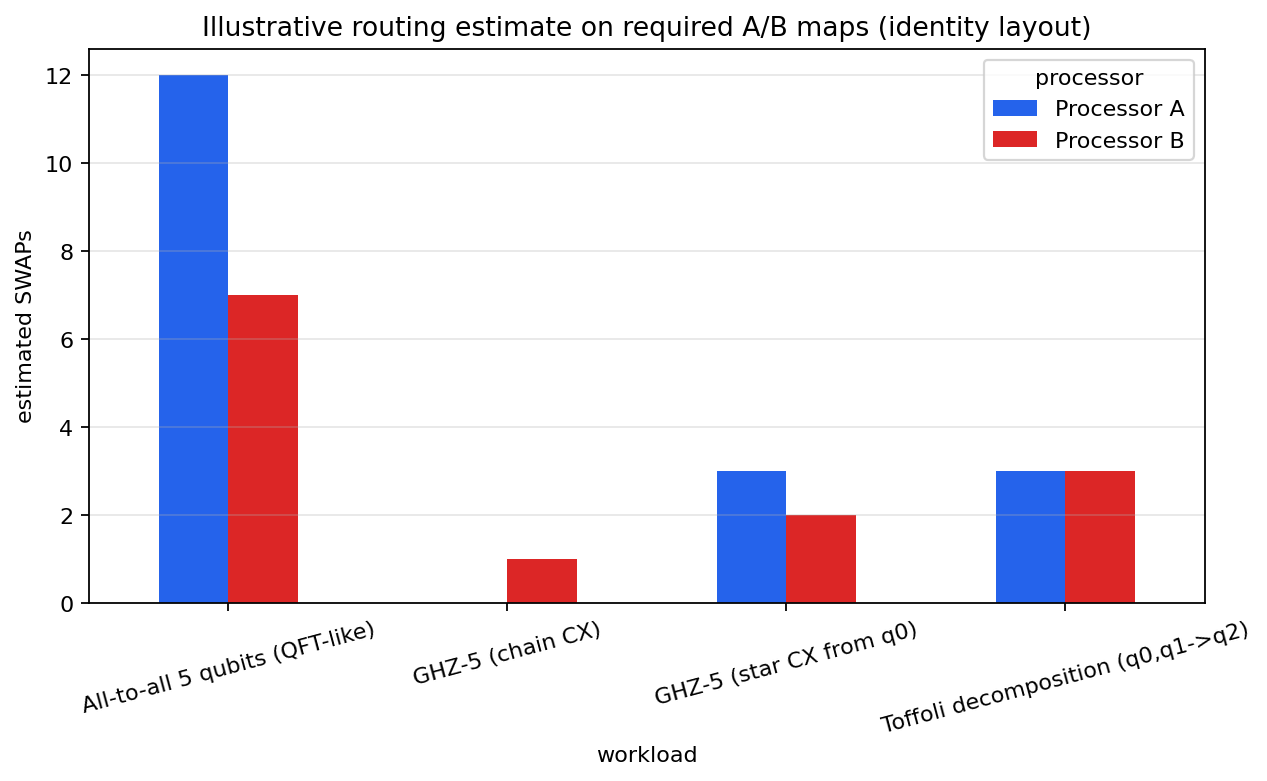
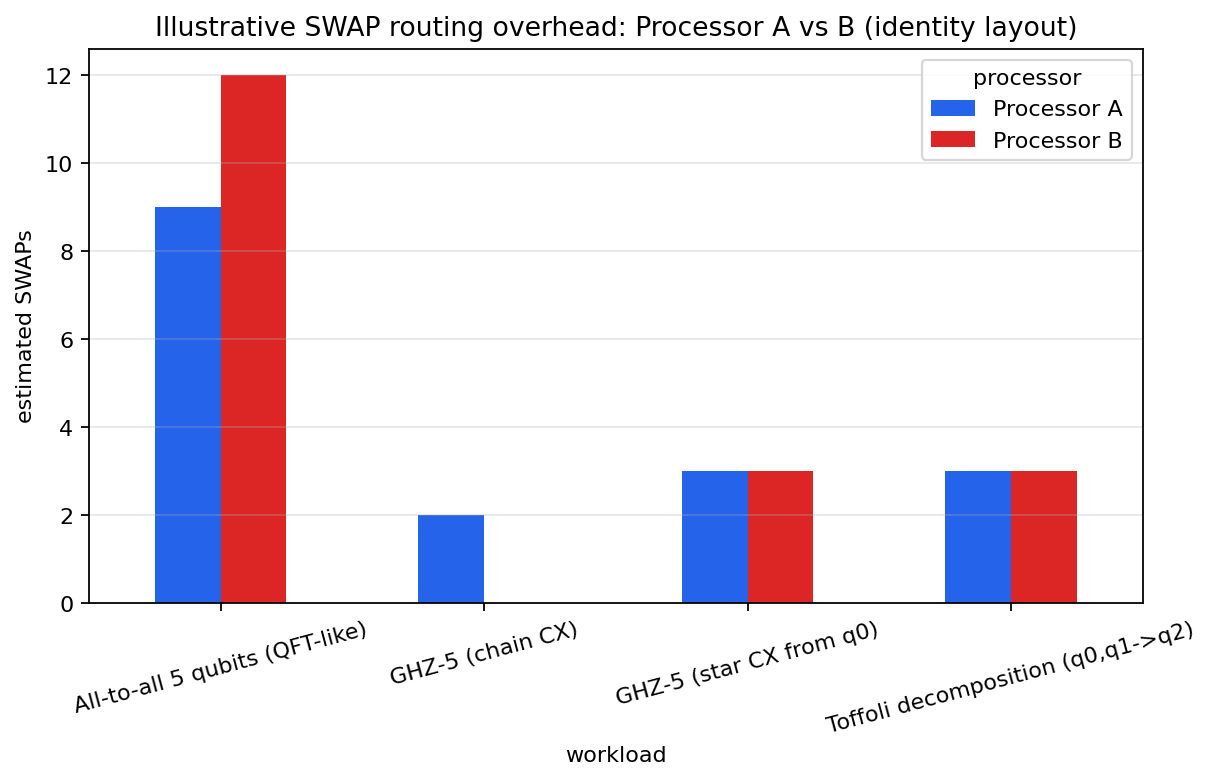
chore(viz): refresh routing_estimate_AB.png with new processor topologies

diff --git a/src/visualization.py b/src/visualization.py
@@ -232,9 +232,15 @@ def fig_routing() -> Path | None:
     cols = [c for c in ["Processor A", "Processor B", "Processor D (3x3 Grid)"] if c in piv.columns]
     piv = piv[cols]
     ax = piv.plot.bar(figsize=(10, 4.8), color=["#2563eb", "#dc2626", "#059669"], rot=15)
-    ax.set_ylabel("estimated SWAPs")
-    ax.set_title("Illustrative SWAP routing overhead: Processor A vs B vs D (identity layout)")
-    ax.grid(axis="y", alpha=0.3)
+    # Save AB-only baseline comparison
+    cols_ab = [c for c in ["Processor A", "Processor B"] if c in piv.columns]
+    if cols_ab:
+        ax_ab = piv[cols_ab].plot.bar(figsize=(8.5, 4.5), color=["#2563eb", "#dc2626"], rot=15)
+        ax_ab.set_ylabel("estimated SWAPs")
+        ax_ab.set_title("Illustrative SWAP routing overhead: Processor A vs B (identity layout)")
+        ax_ab.grid(axis="y", alpha=0.3)
+        _save(ax_ab.get_figure(), "routing_estimate_AB.png")
+
     return _save(ax.get_figure(), "routing_estimate_ABD.png")
 
 
